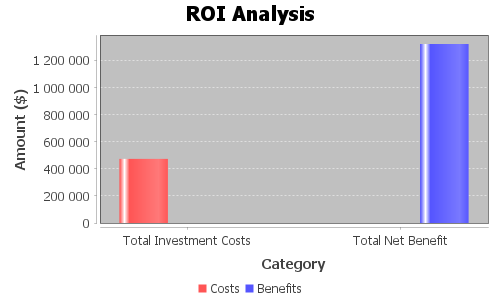
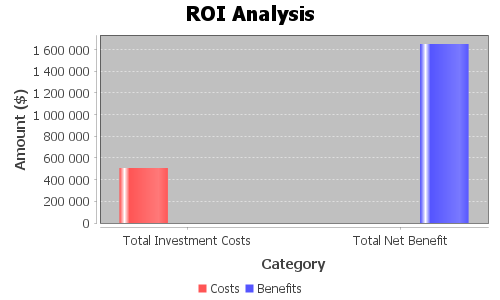
Developed Medical Asset Tracking Use Case for Healthcare

diff --git a/src/main/resources/templates/healthcare/healthcare-list.html b/src/main/resources/templates/healthcare/healthcare-list.html
@@ -50,7 +50,6 @@
             </div>
             <div class="col-md-4">
                 <a th:href="@{/healthcare/smart-pharmacy-form}" class="industry-link">
-              <!-- <a href="smart-pharmacy.html" class="industry-link"></a> -->
                 <div class="use-case-card">
                     <div class="use-case-icon">💊</div>
                     <h3>Smart Pharmacy</h3>
@@ -58,13 +57,12 @@
                 </a>
             </div>
             <div class="col-md-4">
-              <!-- <a href="medical-asset-tracking.html" class="industry-link"></a> -->
+                <a th:href="@{/healthcare/medical-asset-tracking-form}" class="industry-link">
                 <div class="use-case-card">
                     <div class="use-case-icon">🔍</div>
                     <h3>Medical Asset Tracking</h3>
-                    <!-- <a href="medical-asset-tracking.html" class="btn btn-primary mt-3">Calculate</a> -->
                 </div>
-              <!-- </a> -->
+               </a>
             </div>
             <div class="col-md-4">
               <!-- <a href="smart-diagnostics.html" class="industry-link"></a> -->

diff --git a/src/main/java/com/example/RemotePatientMonitoringSystem02/controller/healthcare/MedicalAssetTrackingController.java b/src/main/java/com/example/RemotePatientMonitoringSystem02/controller/healthcare/MedicalAssetTrackingController.java
@@ -1,9 +1,8 @@
 package com.example.RemotePatientMonitoringSystem02.controller.healthcare;
 
-
-import com.example.RemotePatientMonitoringSystem02.entity.healthcare.RemotePatientMonitoringDevices;
-import com.example.RemotePatientMonitoringSystem02.entity.healthcare.SmartHospitalDevices;
-import com.example.RemotePatientMonitoringSystem02.service.healthcare.SmartHospitalService;
+import com.example.RemotePatientMonitoringSystem02.entity.healthcare.MedicalAssetTrackingDevices;
+import com.example.RemotePatientMonitoringSystem02.entity.healthcare.SmartPharmacyDevices;
+import com.example.RemotePatientMonitoringSystem02.service.healthcare.MedicalAssetTrackingService;
 import org.jfree.chart.ChartFactory;
 import org.jfree.chart.ChartUtils;
 import org.jfree.chart.JFreeChart;
@@ -29,32 +28,31 @@ import java.util.Arrays;
 import java.util.List;
 
 @Controller
-public class SmartHospitalController {
+public class MedicalAssetTrackingController {
+    private final MedicalAssetTrackingService medicalAssetTrackingService;
 
-    private final SmartHospitalService smartHospitalService;
-
-    public SmartHospitalController(SmartHospitalService smartHospitalService) {
-        this.smartHospitalService = smartHospitalService;
+    public MedicalAssetTrackingController(MedicalAssetTrackingService medicalAssetTrackingService) {
+        this.medicalAssetTrackingService = medicalAssetTrackingService;
     }
 
 
-    @GetMapping("/healthcare/smart-hospital-form")
+    @GetMapping("/healthcare/medical-asset-tracking-form")
     public String showForm(Model model) {
-        List<SmartHospitalDevices> devices = smartHospitalService.getAllDevices();
+        List<MedicalAssetTrackingDevices> devices = medicalAssetTrackingService.getAllDevices();
         model.addAttribute("devices", devices);
-        model.addAttribute("dynamicUrl", "/smart-hospital/calculate-roi");
-        model.addAttribute("pageFormTitle", "Smart Hospital ROI Calculation");
+        model.addAttribute("dynamicUrl", "/medical-asset-tracking/calculate-roi");
+        model.addAttribute("pageFormTitle", "Medical Asset Tracking ROI Calculation");
         return "healthcare/remote-patient-monitoring-form";
     }
 
-    @PostMapping("/smart-hospital/calculate-roi")
+    @PostMapping("/medical-asset-tracking/calculate-roi")
     public String calculateROI(@RequestParam("quantities") String[] quantities,
                                @RequestParam("investmentPeriod") int investmentPeriod,
                                Model model) {
 
-        Logger logger = LoggerFactory.getLogger(SmartHospitalController.class);
+        Logger logger = LoggerFactory.getLogger(MedicalAssetTrackingController.class);
 
-        List<SmartHospitalDevices> devices = smartHospitalService.getAllDevices();
+        List<MedicalAssetTrackingDevices> devices = medicalAssetTrackingService.getAllDevices();
         List<Integer> finalQuantities = new ArrayList<>();
 
         logger.info("Received quantities: {}", Arrays.toString(quantities));
@@ -74,9 +72,9 @@ public class SmartHospitalController {
         }
 
         // Perform ROI calculation
-        BigDecimal totalInvestmentCosts = smartHospitalService.calculateTotalInvestment(devices, finalQuantities, investmentPeriod);
-        BigDecimal totalNetBenefit = smartHospitalService.calculateTotalNetBenefit(devices, finalQuantities, investmentPeriod);
-        BigDecimal roi = smartHospitalService.calculateROI(totalInvestmentCosts, totalNetBenefit);
+        BigDecimal totalInvestmentCosts = medicalAssetTrackingService.calculateTotalInvestment(devices, finalQuantities, investmentPeriod);
+        BigDecimal totalNetBenefit = medicalAssetTrackingService.calculateTotalNetBenefit(devices, finalQuantities, investmentPeriod);
+        BigDecimal roi = medicalAssetTrackingService.calculateROI(totalInvestmentCosts, totalNetBenefit);
 
         // Add calculated values to the model for display on the results page
         model.addAttribute("totalInvestmentCosts", totalInvestmentCosts);
@@ -86,14 +84,19 @@ public class SmartHospitalController {
 
         // Add cache-busting version (timestamp)
         model.addAttribute("imageVersion", System.currentTimeMillis());
-        model.addAttribute("pageResultTitle", "Smart Hospital ROI Calculation Results");
+        model.addAttribute("pageResultTitle", "Medical Asset Tracking ROI Calculation Results");
 
-        String chartPath = "/smart-hospital/chart?imageName=smart_hospital_chart.png";
+
+//        String chartPath = "/smart-hospital/chart?imageName=smart_hospital_chart.png"; // Use query parameter for the image name
+//        model.addAttribute("chartPath", chartPath);
+
+        String chartPath = "/medical-asset-tracking/chart?imageName=medical-asset-tracking_chart.png";
         model.addAttribute("chartPath", chartPath);
 
         //link to back to form
-        String backToFormPath= "/healthcare/smart-hospital-form";
+        String backToFormPath= "/healthcare/medical-asset-tracking-form";
         model.addAttribute("backToFormPath", backToFormPath);
+
 //        model.addAttribute("chartPath", "/smart-hospital/chart(imageName='smart_hospital_chart.png')");
         // Generate the bar chart
         generateBarChart(totalInvestmentCosts, totalNetBenefit);
@@ -102,9 +105,8 @@ public class SmartHospitalController {
         return "healthcare/remote-patient-monitoring-ROI";
     }
 
-
     // New method to serve the image
-    @GetMapping("/smart-hospital/chart")
+    @GetMapping("/medical-asset-tracking/chart")
     public ResponseEntity<FileSystemResource> getChart(@RequestParam("imageName") String imageName) {
         File imageFile = new File("src/main/resources/static/images/" + imageName);
 
@@ -121,7 +123,7 @@ public class SmartHospitalController {
 
     // Method to generate the bar chart
     private void generateBarChart(BigDecimal totalInvestmentCosts, BigDecimal totalNetBenefit) {
-        CategoryDataset dataset = createDataset(totalInvestmentCosts,totalNetBenefit);
+        CategoryDataset dataset = createDataset(totalInvestmentCosts, totalNetBenefit);
 
         JFreeChart barChart = ChartFactory.createBarChart(
                 "ROI Analysis",
@@ -131,12 +133,29 @@ public class SmartHospitalController {
         );
 
         try {
+            // Ensure the directory exists
+            File directory = new File("src/main/resources/static/images/");
+            if (!directory.exists()) {
+                directory.mkdirs();
+            }
+
             // Save the chart as an image file
-            ChartUtils.saveChartAsPNG(new File("src/main/resources/static/images/smart_hospital_chart.png"), barChart, 500, 300);
+            File chartFile = new File(directory, "medical-asset-tracking_chart.png");
+            ChartUtils.saveChartAsPNG(chartFile, barChart, 500, 300);
+
+            // Log the file path
+            Logger logger = LoggerFactory.getLogger(MedicalAssetTrackingController.class);
+            logger.info("Chart saved at: " + chartFile.getAbsolutePath());
         } catch (IOException e) {
             e.printStackTrace(); // Handle exceptions appropriately in production
         }
+
+
     }
+
+
+
+
 
     // Method to create the dataset for the bar chart_two valueas
     private CategoryDataset createDataset(BigDecimal totalInvestmentCosts, BigDecimal totalNetBenefiti) {
@@ -145,5 +164,4 @@ public class SmartHospitalController {
         dataset.addValue(totalNetBenefiti, "Benefits", "Total Net Benefit");
         return dataset;
     }
-
 }

diff --git a/src/main/java/com/example/RemotePatientMonitoringSystem02/service/healthcare/MedicalAssetTrackingService.java b/src/main/java/com/example/RemotePatientMonitoringSystem02/service/healthcare/MedicalAssetTrackingService.java
@@ -1,0 +1,68 @@
+package com.example.RemotePatientMonitoringSystem02.service.healthcare;
+
+
+import com.example.RemotePatientMonitoringSystem02.entity.healthcare.MedicalAssetTrackingDevices;
+import com.example.RemotePatientMonitoringSystem02.entity.healthcare.SmartPharmacyDevices;
+import com.example.RemotePatientMonitoringSystem02.repository.healthcare.MedicalAssetTrackingRepository;
+import org.springframework.stereotype.Service;
+
+import java.math.BigDecimal;
+import java.math.RoundingMode;
+import java.util.List;
+
+@Service
+public class MedicalAssetTrackingService {
+
+    private final MedicalAssetTrackingRepository medicalAssetTrackingRepository;
+
+    public MedicalAssetTrackingService(MedicalAssetTrackingRepository medicalAssetTrackingRepository) {
+        this.medicalAssetTrackingRepository = medicalAssetTrackingRepository;
+    }
+
+    public List<MedicalAssetTrackingDevices> getAllDevices(){
+        return medicalAssetTrackingRepository.findAll();
+    }
+
+    public BigDecimal calculateTotalInvestment(List<MedicalAssetTrackingDevices> devices, List<Integer> quantities, int investmentPeriod) {
+        BigDecimal totalInvestment = BigDecimal.ZERO;
+        for (int i = 0; i < devices.size(); i++) {
+            MedicalAssetTrackingDevices device = devices.get(i);
+            int quantity = quantities.get(i) != null ? quantities.get(i) : device.getDefaultQuantity();
+
+            // Initial investment per device type
+            BigDecimal initialInvestment = BigDecimal.valueOf(quantity).multiply(device.getInitialCostPerUnit());
+
+            // Maintenance cost over the investment period
+            BigDecimal maintenanceCost = BigDecimal.valueOf(quantity).multiply(device.getAnnualMaintenanceCostPerUnit()).multiply(BigDecimal.valueOf(investmentPeriod));
+
+            totalInvestment = totalInvestment.add(initialInvestment).add(maintenanceCost);
+        }
+        return totalInvestment;
+    }
+
+    public BigDecimal calculateTotalNetBenefit(List<MedicalAssetTrackingDevices> devices, List<Integer> quantities, int investmentPeriod) {
+        BigDecimal totalBenefit = BigDecimal.ZERO;
+        for (int i = 0; i < devices.size(); i++) {
+            MedicalAssetTrackingDevices device = devices.get(i);
+            int quantity = quantities.get(i) != null ? quantities.get(i) : device.getDefaultQuantity();
+
+            // Annual benefit from sales, efficiency, and customer engagement
+            BigDecimal annualBenefit = BigDecimal.valueOf(quantity).multiply(
+                    device.getIncreasedSalesBenefitPerUnit()
+                            .add(device.getCostSavingsFromEfficiencyPerUnit())
+                            .add(device.getIncreasedCustomerEngagementBenefitPerUnit())
+            );
+
+            totalBenefit = totalBenefit.add(annualBenefit.multiply(BigDecimal.valueOf(investmentPeriod)));
+        }
+        return totalBenefit;
+    }
+
+    public BigDecimal calculateROI(BigDecimal totalInvestmentCosts, BigDecimal totalNetBenefit) {
+        return totalNetBenefit.subtract(totalInvestmentCosts)
+                .divide(totalInvestmentCosts, RoundingMode.HALF_UP)
+                .multiply(BigDecimal.valueOf(100));
+    }
+
+
+}

diff --git a/src/main/java/com/example/RemotePatientMonitoringSystem02/entity/healthcare/MedicalAssetTrackingDevices.java b/src/main/java/com/example/RemotePatientMonitoringSystem02/entity/healthcare/MedicalAssetTrackingDevices.java
@@ -1,0 +1,34 @@
+package com.example.RemotePatientMonitoringSystem02.entity.healthcare;
+
+import jakarta.persistence.Entity;
+import jakarta.persistence.GeneratedValue;
+import jakarta.persistence.GenerationType;
+import jakarta.persistence.Id;
+import jakarta.validation.constraints.PositiveOrZero;
+import lombok.AllArgsConstructor;
+import lombok.Data;
+import lombok.NoArgsConstructor;
+
+import java.math.BigDecimal;
+
+@Data
+@AllArgsConstructor
+@NoArgsConstructor
+@Entity
+public class MedicalAssetTrackingDevices {
+
+    @Id
+    @GeneratedValue(strategy = GenerationType.IDENTITY)
+    private Long id;
+
+    private String deviceType;
+
+    @PositiveOrZero(message = "Quantity must be a non-negative integer. Please enter a valid quantity.")
+    private int defaultQuantity;
+    private BigDecimal initialCostPerUnit;
+    private BigDecimal annualMaintenanceCostPerUnit;
+    private BigDecimal increasedSalesBenefitPerUnit;
+    private BigDecimal costSavingsFromEfficiencyPerUnit;
+    private BigDecimal increasedCustomerEngagementBenefitPerUnit;
+    private String deviceDescription;
+}

diff --git a/src/main/java/com/example/RemotePatientMonitoringSystem02/repository/healthcare/MedicalAssetTrackingRepository.java b/src/main/java/com/example/RemotePatientMonitoringSystem02/repository/healthcare/MedicalAssetTrackingRepository.java
@@ -1,0 +1,9 @@
+package com.example.RemotePatientMonitoringSystem02.repository.healthcare;
+
+import com.example.RemotePatientMonitoringSystem02.entity.healthcare.MedicalAssetTrackingDevices;
+import org.springframework.data.jpa.repository.JpaRepository;
+import org.springframework.stereotype.Repository;
+
+@Repository
+public interface MedicalAssetTrackingRepository extends JpaRepository<MedicalAssetTrackingDevices, Long> {
+}
